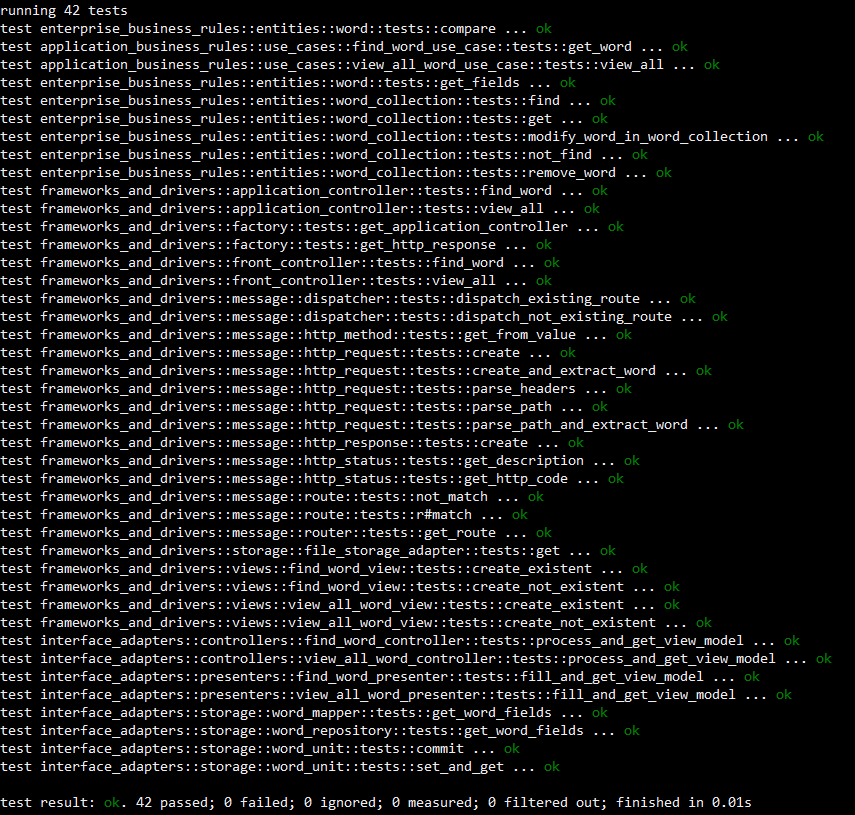
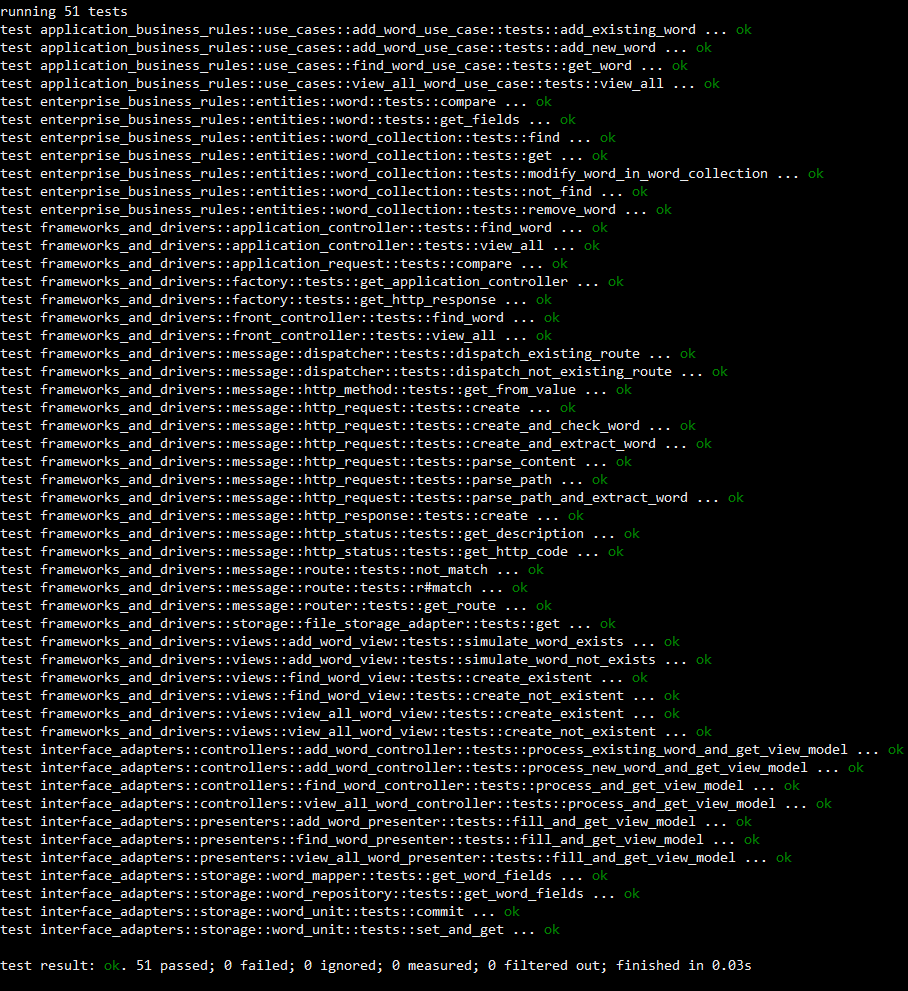
update

diff --git a/tests/add_word.rs b/tests/add_word.rs
@@ -1,0 +1,49 @@
+//@author Stanislav Polaniev <spolanyev@gmail.com>
+
+use std::process::Command;
+use std::thread;
+use std::time::Duration;
+
+#[test]
+fn add_update_delete() {
+    let mut cargo_run = Command::new("cargo");
+    if let Ok(mut child) = cargo_run.arg("run").spawn() {
+        thread::sleep(Duration::from_secs(1)); //time to start server
+
+        let curl_output = Command::new("curl")
+            .args(&[
+                "-X",
+                "POST",
+                "-H",
+                "Content-Type: text/plain",
+                "--data-binary",
+                "newword\n3000\nновое слово",
+                "http://localhost/words",
+            ])
+            .output()
+            .expect("Failed to execute command");
+        let found = String::from_utf8(curl_output.stdout.as_slice().to_owned())
+            .expect("Failed to convert to String");
+        assert_eq!("Word \"newword\" is added \u{1F60E}", found);
+
+        let curl_output = Command::new("curl")
+            .args(&[
+                "-X",
+                "POST",
+                "-H",
+                "Content-Type: text/plain",
+                "--data-binary",
+                "newword\n3000\nновое слово",
+                "http://localhost/words",
+            ])
+            .output()
+            .expect("Failed to execute command");
+        let found = String::from_utf8(curl_output.stdout.as_slice().to_owned())
+            .expect("Failed to convert to String");
+        assert_eq!("Word \"newword\" is already exist \u{1F60E}", found);
+
+        child.kill().expect("Failed to stop cargo");
+    } else {
+        assert!(false);
+    }
+}

diff --git a/src/main.rs b/src/main.rs
@@ -28,6 +28,7 @@ fn main() {
         let mut routes = vec![
             Route::new(HttpMethod::Get, "/words/*", "find_word"),
             Route::new(HttpMethod::Get, "/words", "view_all"),
+            Route::new(HttpMethod::Post, "/words", "add_word"),
         ];
 
         let mut router = Box::new(Router::new());

diff --git a/src/frameworks_and_drivers/front_controller.rs b/src/frameworks_and_drivers/front_controller.rs
@@ -129,7 +129,7 @@ mod tests {
 
         let http_response = front_controller.delegate(http_request);
 
-        assert!(["ability", "able", "a"]
+        assert!(["a", "ability", "able"]
             .iter()
             .all(|&word| http_response.view_response().contains(word)));
 
